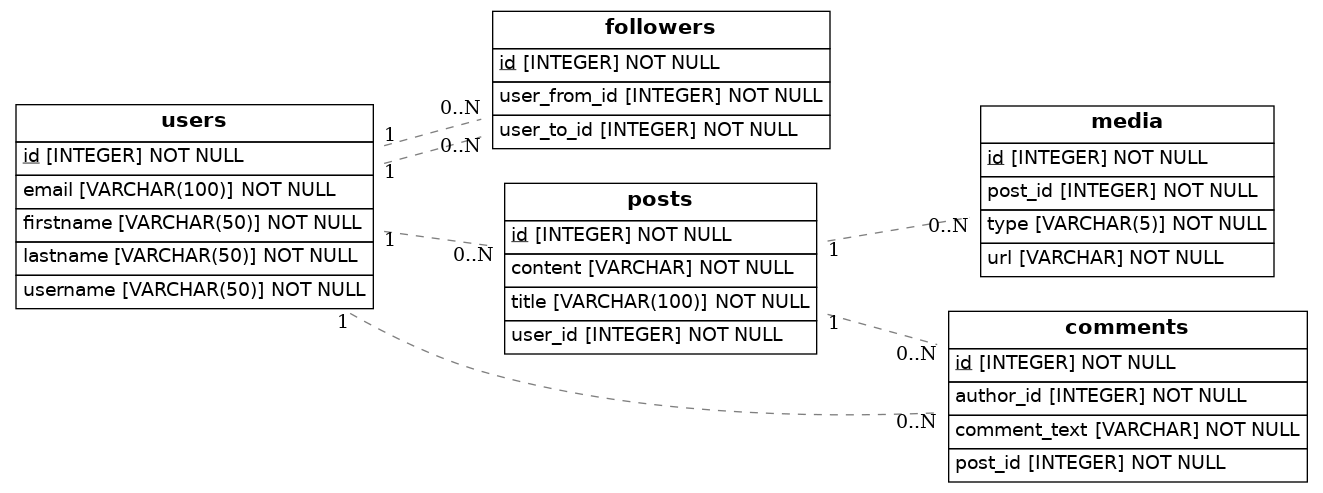
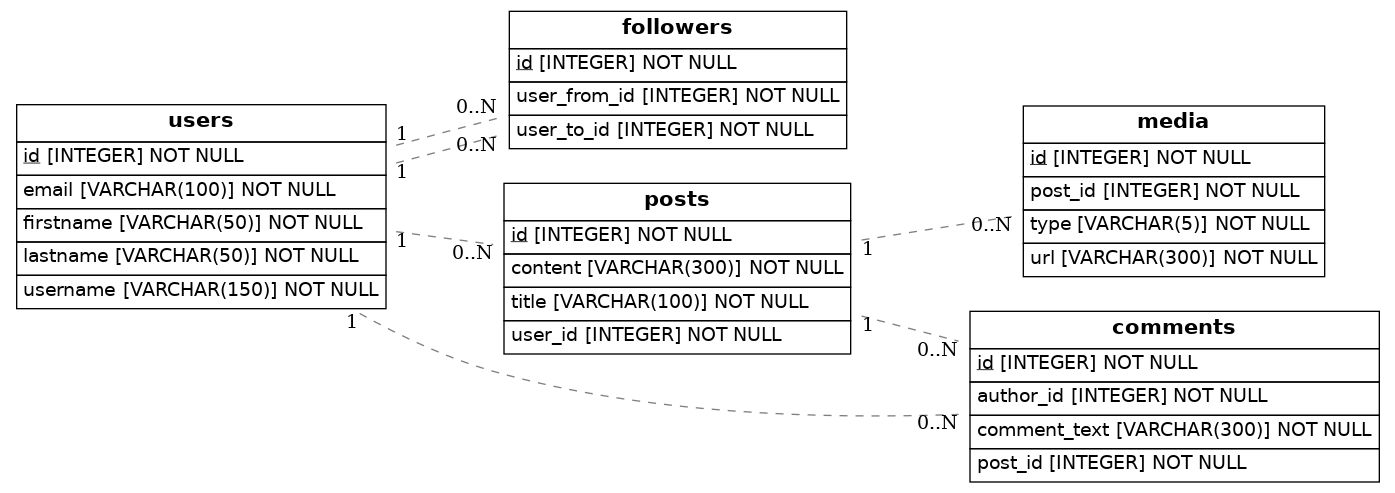
finished

diff --git a/src/models.py b/src/models.py
@@ -31,7 +31,7 @@ class Post(Base):
     __tablename__ = 'posts'
     id = Column(Integer, primary_key=True) 
     title = Column(String(100), nullable=False)  
-    content = Column(String, nullable=False)  
+    content = Column(String(300), nullable=False)  
     user_id = Column(Integer, ForeignKey('users.id'), nullable=False) 
 
 
@@ -42,7 +42,7 @@ class Post(Base):
 class Comment(Base):
     __tablename__ = 'comments'
     id = Column(Integer, primary_key=True)  
-    comment_text = Column(String, nullable=False)  
+    comment_text = Column(String(300), nullable=False)  
     author_id = Column(Integer, ForeignKey('users.id'), nullable=False) 
     post_id = Column(Integer, ForeignKey('posts.id'), nullable=False)  
 
@@ -53,7 +53,7 @@ class Media(Base):
     __tablename__ = 'media'
     id = Column(Integer, primary_key=True)  
     type = Column(Enum('image', 'video', 'audio', name='media_types'), nullable=False) 
-    url = Column(String, nullable=False)  
+    url = Column(String(300), nullable=False)  
     post_id = Column(Integer, ForeignKey('posts.id'), nullable=False)  
 
     post = relationship('Post', back_populates='media')
